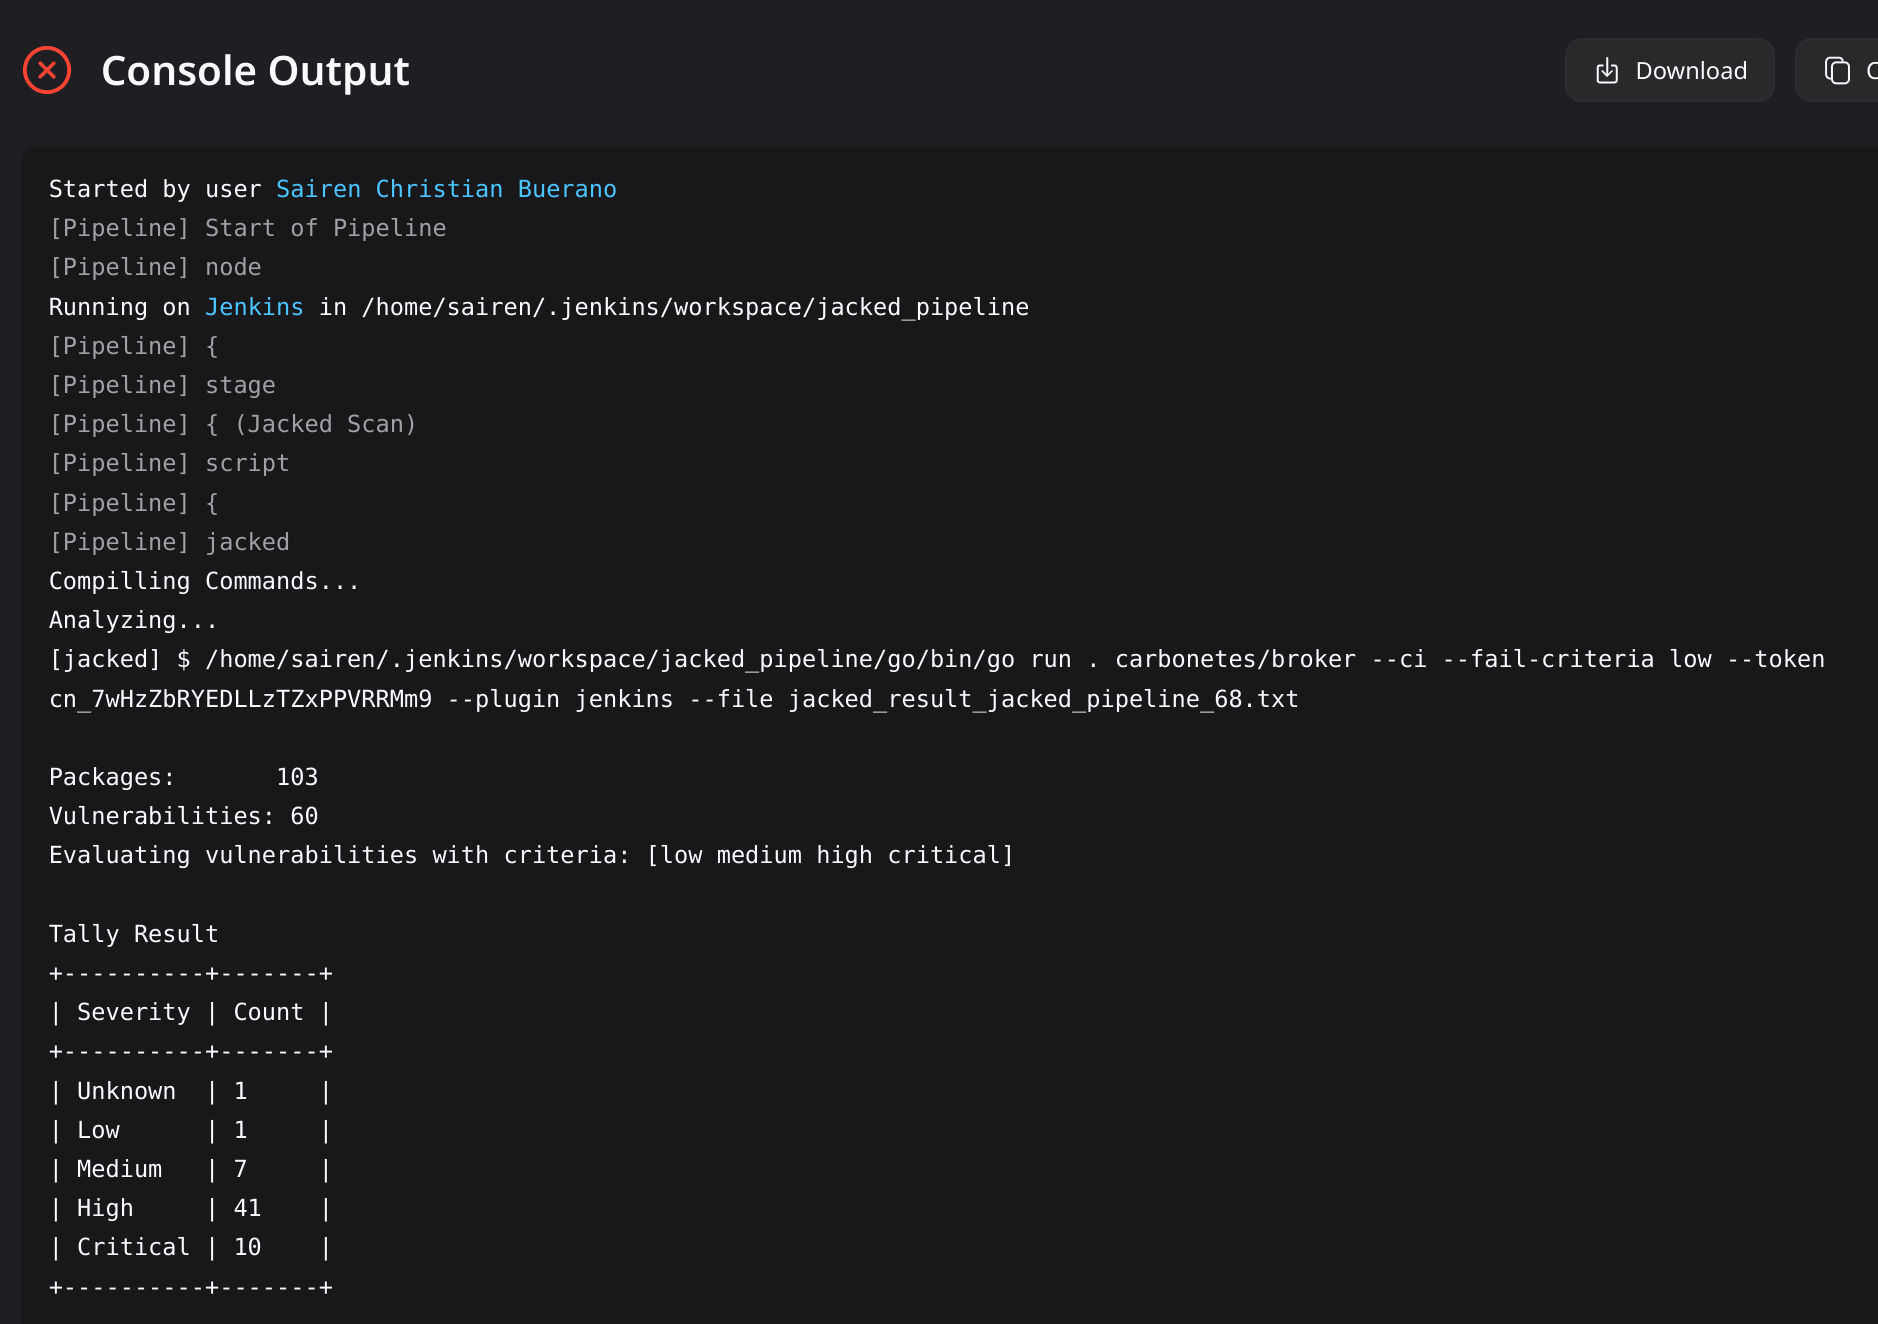
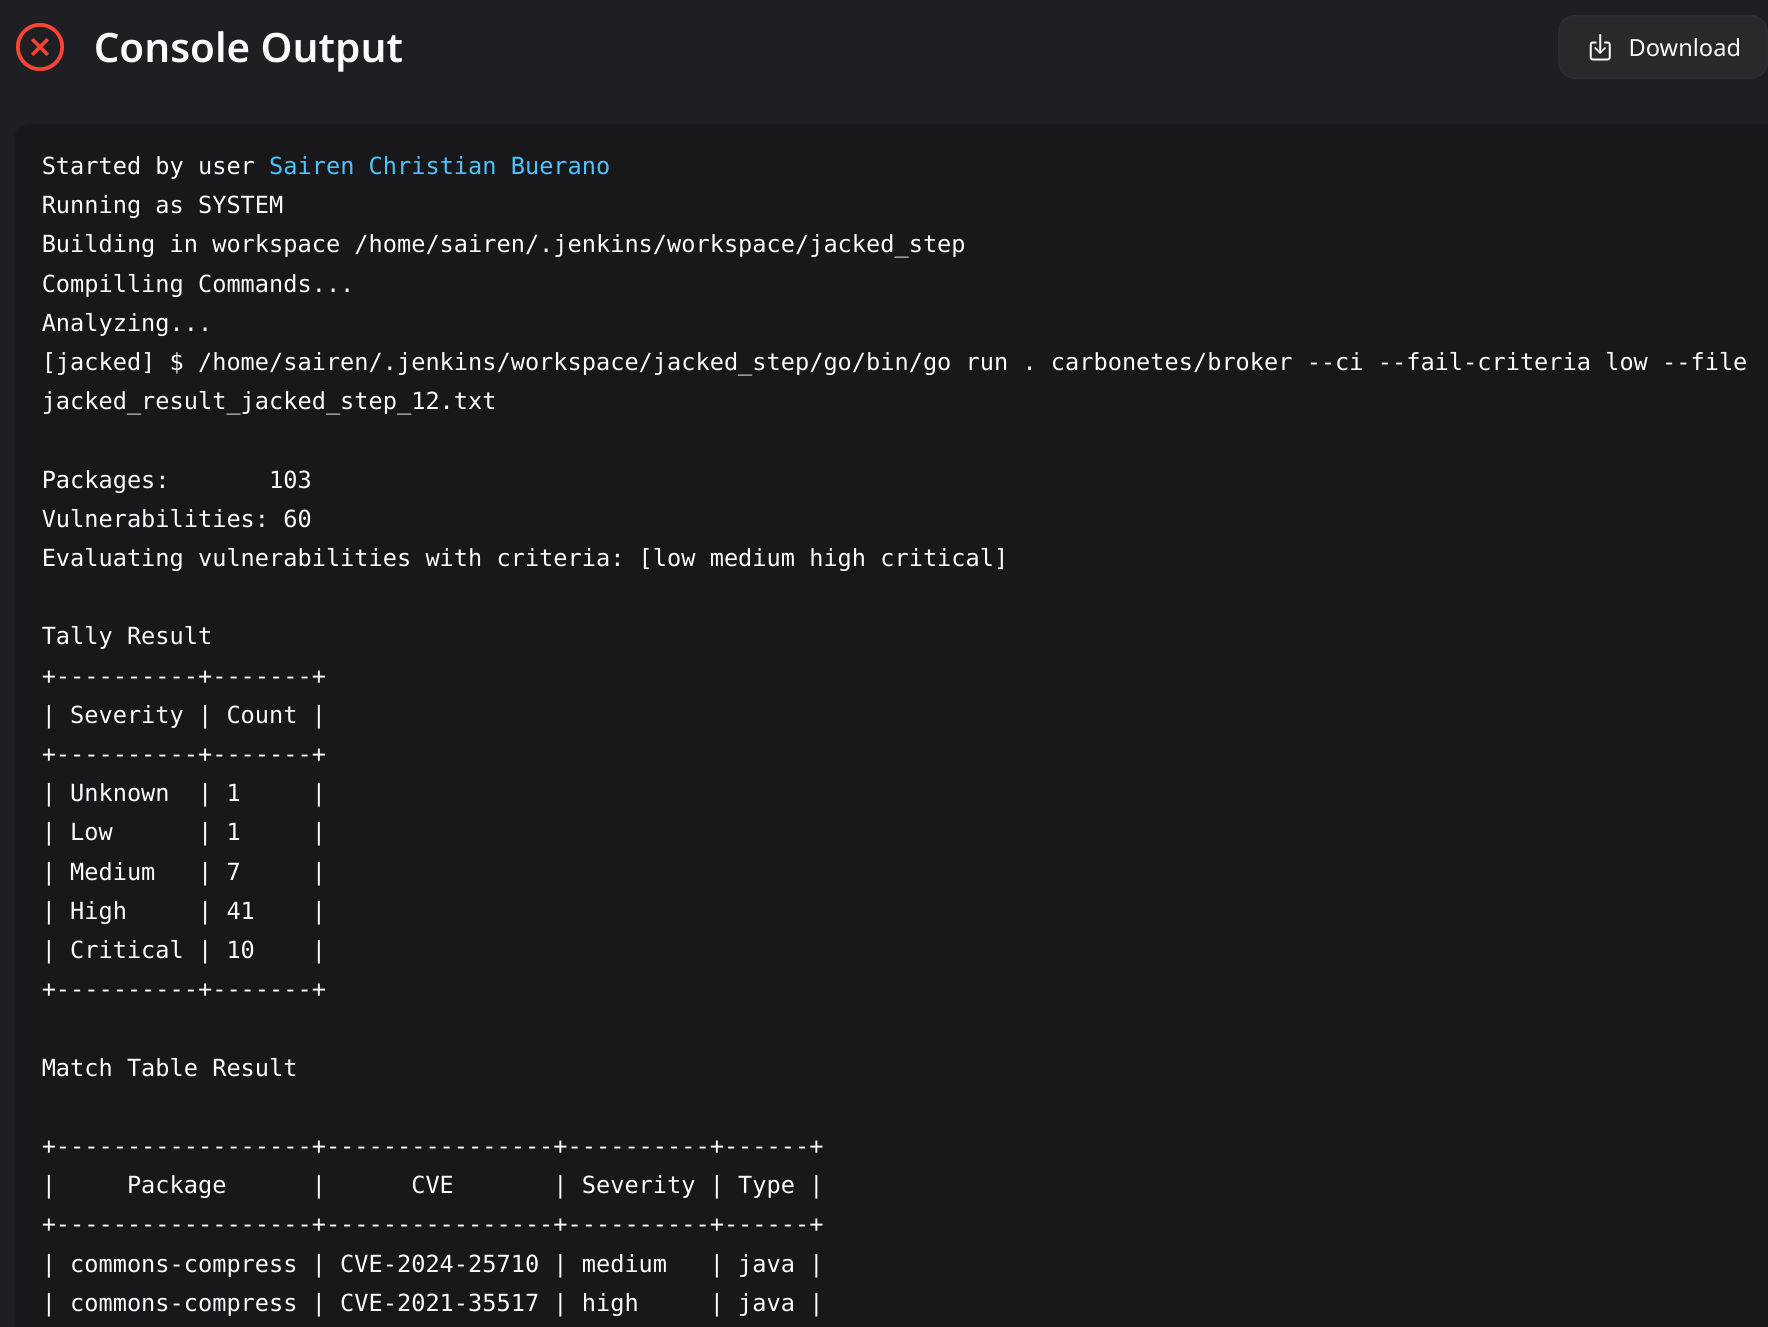
feature: 1.5.1 - bugfixes and apply jacked v1.9.1-ci-0.0.1 updates

diff --git a/src/main/java/io/jenkins/plugins/jacked/scan/SetArgs.java b/src/main/java/io/jenkins/plugins/jacked/scan/SetArgs.java
@@ -1,5 +1,6 @@
 package io.jenkins.plugins.jacked.scan;
 
+import java.nio.file.Paths;
 import java.util.ArrayList;
 
 import io.jenkins.plugins.jacked.model.JackedConfig;
@@ -16,19 +17,21 @@ public class SetArgs {
     private static final String CIMODE = "--ci";
     private static final String FILE = "--file";
     private static final String SKIPDBUPDATE = "--skip-db-update";
-    private static final String IGNOREPACKAGENAMES = "--ignore-package-names";
-    private static final String IGNOREVULNCVES = "--ignore-cves";
+
+
+    /* Commented out for now for disabling integration feature 05-20-2024
     private static final String TOKEN = "--token";
     private static final String PLUGIN = "--plugin";
+     */
 
     public String[] scanTypeArgs(JackedConfig jackedConfig, JenkinsConfig jenkinsConfig) {
         ArrayList<String> cmdArgs = new ArrayList<>();
 
         // Get the Go binary path from the JackedConfigscanTypeArgs(jackedConfig)
         String workspaceDir = jenkinsConfig.getWorkspace().getRemote(); // /home/sairen/.jenkins/workspace/jacked pipeline
-        String goTmpDir = workspaceDir + "/go"; // Static folder for Go binary
+        String goTmpDir = Paths.get(workspaceDir, "go").toString(); // Static folder for Go binary
 
-        String goBinaryPath = goTmpDir + "/bin/go";
+        String goBinaryPath = Paths.get(goTmpDir, "bin", "go").toString();
         // Ensure the Go binary path is valid
         if (goBinaryPath == null || goBinaryPath.isEmpty()) {
             throw new IllegalArgumentException("Go binary path is not set in JackedConfig.");
@@ -66,24 +69,16 @@ public class SetArgs {
         cmdArgs.add(FAILCRITERIA);
         cmdArgs.add(jackedConfig.getSeverityType());
 
+        /* Commented out for now for disabling integration feature 05-20-2024
         cmdArgs.add(TOKEN);
         cmdArgs.add(jackedConfig.getToken());
 
         cmdArgs.add(PLUGIN);
         cmdArgs.add("jenkins");
+        */
 
         if (Boolean.TRUE.equals(jackedConfig.getSkipDbUpdate())) {
             cmdArgs.add(SKIPDBUPDATE);
-        }
-
-        if (jackedConfig.getIgnorePackageNames() != null && !jackedConfig.getIgnorePackageNames().isEmpty()) {
-            cmdArgs.add(IGNOREPACKAGENAMES);
-            cmdArgs.add(jackedConfig.getIgnorePackageNames());
-        }
-
-        if (jackedConfig.getIgnoreCves() != null && !jackedConfig.getIgnoreCves().isEmpty()) {
-            cmdArgs.add(IGNOREVULNCVES);
-            cmdArgs.add(jackedConfig.getIgnoreCves());
         }
 
         // Output file

diff --git a/src/main/java/io/jenkins/plugins/jacked/Jacked.java b/src/main/java/io/jenkins/plugins/jacked/Jacked.java
@@ -39,7 +39,8 @@ import io.jenkins.plugins.jacked.model.JackedConfig;
 import io.jenkins.plugins.jacked.model.JenkinsConfig;
 
 /**
- * @author Sairen Christian Buerano - Carbonetes
+ * @author Sairen Christian Buerano
+ * @author Carbonetes
  */
 @Getter
 @Setter
@@ -52,9 +53,9 @@ public class Jacked extends Builder implements SimpleBuildStep {
     private String scanType;
     private Boolean skipFail;
     private Boolean skipDbUpdate;
-    private String ignorePackageNames;
-    private String ignoreCves;
+    /* Commented out for now for disabling integration feature 05-20-2024
     private String token;
+    */
     private Map<String, String> content;
 
     // Fields in config.jelly must match the parameter names in the
@@ -67,9 +68,9 @@ public class Jacked extends Builder implements SimpleBuildStep {
         String scanType, 
         Boolean skipFail, 
         Boolean skipDbUpdate, 
-        String ignorePackageNames, 
-        String ignoreCves, 
+        /* Commented out for now for disabling integration feature 05-20-2024
         String token,
+        */
         Map<String, String> 
         content, 
         JackedConfig 
@@ -81,20 +82,20 @@ public class Jacked extends Builder implements SimpleBuildStep {
         this.scanType = scanType;
         this.skipFail = skipFail;
         this.skipDbUpdate = skipDbUpdate;
-        this.ignorePackageNames = ignorePackageNames;
-        this.ignoreCves = ignoreCves;
         this.content = content;
+        /* Commented out for now for disabling integration feature 05-20-2024
         this.token = token;
+        */
         this.jackedConfig = new JackedConfig(
             scanDest, 
             scanName, 
             severityType, 
             scanType, 
             skipFail, 
-            skipDbUpdate,
-            ignorePackageNames, 
-            ignoreCves,
+            skipDbUpdate
+            /* Commented out for now for disabling integration feature 05-20-2024
             token
+            */
         );
     }
 

diff --git a/src/main/java/io/jenkins/plugins/jacked/model/JackedConfig.java b/src/main/java/io/jenkins/plugins/jacked/model/JackedConfig.java
@@ -14,9 +14,9 @@ public class JackedConfig {
     private String scanType;
     private Boolean skipFail;
     private Boolean skipDbUpdate;
-    private String ignorePackageNames;
-    private String ignoreCves;
+    /* Disabling integration feature 05-20-2024
     private String token;
+    */
     private Map<String, String> content;
     
     public JackedConfig(
@@ -25,10 +25,10 @@ public class JackedConfig {
         String severityType, 
         String scanType, 
         Boolean skipFail, 
-        Boolean skipDbUpdate, 
-        String ignorePackageNames, 
-        String ignoreCves, 
+        Boolean skipDbUpdate
+        /* Disabling integration feature 05-20-2024
         String token
+        */
     ){
         this.scanDest = scanDest;
         this.scanName = scanName;
@@ -36,9 +36,9 @@ public class JackedConfig {
         this.scanType = scanType;
         this.skipFail = skipFail;
         this.skipDbUpdate = skipDbUpdate;
-        this.ignorePackageNames = ignorePackageNames;
-        this.ignoreCves = ignoreCves;
+        /* Disabling integration feature 05-20-2024
         this.token = token;
+        */
     }
 
 }

diff --git a/src/main/java/io/jenkins/plugins/jacked/install/Clone.java b/src/main/java/io/jenkins/plugins/jacked/install/Clone.java
@@ -22,17 +22,17 @@ public class Clone {
                 destDir.deleteRecursive();
             }
 
-            listener.getLogger().println("Cloning repository and checking out tag v1.9.1-ci...");
+            listener.getLogger().println("Cloning repository and checking out tag v1.9.1-ci-0.0.1..."); // v1.9.1-ci
 
             // Clone the repository without checkout
             Git.cloneRepository()
             .setURI("https://github.com/carbonetes/jacked.git")
             .setDirectory(new File(destDir.getRemote()))
-            .setBranch("refs/tags/v1.9.1-ci")
+            .setBranch("refs/tags/v1.9.1-ci-0.0.1") // v1.9.1-ci
             .call();
         
 
-            listener.getLogger().println("Repository cloned and tag v1.9.1-ci checked out at: " + destDir.getRemote());
+            listener.getLogger().println("Repository cloned and tag v1.9.1-ci-0.0.1 checked out at: " + destDir.getRemote()); // v1.9.1-ci
         } catch (GitAPIException e) {
             listener.getLogger().println("Error during repository clone or checkout: " + e.getMessage());
             e.printStackTrace(listener.getLogger());

diff --git a/src/main/java/io/jenkins/plugins/jacked/install/JackedExist.java b/src/main/java/io/jenkins/plugins/jacked/install/JackedExist.java
@@ -12,7 +12,7 @@ public class JackedExist {
     public Boolean checkIfExists(FilePath workspace) {
         // CheckVersion checkVersion = new CheckVersion();
         String workspacePath = workspace.getRemote();
-        String version = "v1.9.1-ci"; // checkVersion.getVersion();
+        String version = "v1.9.1-ci-0.0.1"; // checkVersion.getVersion(); // 05-20-2024 temporarily uses present version instead of v1.9.1-ci
         String fileName = "jacked" + version + "-exist.txt";
         String fileContent = "Jacked" + version + " installed on this workspace";
 

diff --git a/src/main/java/io/jenkins/plugins/jacked/install/Go.java b/src/main/java/io/jenkins/plugins/jacked/install/Go.java
@@ -20,7 +20,7 @@ public class Go {
         // Replace spaces with underscores for safe directory handling
         goTmpDir = goTmpDir.replace(" ", "_");
 
-        String goUrl = "https://go.dev/dl/go1.22.4.linux-amd64.tar.gz";
+        String goUrl = "https://go.dev/dl/go1.22.4.linux-amd64.tar.gz"; // Uses 1.22.4 Go Version
         String downloadPath = goTmpDir + "/go.tar.gz";
         String extractDir = goTmpDir; // final go path = goTmpDir/go
 

diff --git a/README.md b/README.md
@@ -37,8 +37,6 @@ Provides the following:
 - Saves Stored Values JSON File for Environment Variables. `jackedTmpDir/jacked_file.json`
 
 # Plugin Configuration Fields and Descriptions
-## Token
-<b>Input: </b> Generated Personal Access Token from [Carbonetes](https://www.carbonetes.com/). Sign-up [here](https://app.carbonetes.com/register).
 ## Scan Type
 <b>Description: </b>Specified the input on scan field based on the selected scan type.
 <br>
@@ -59,15 +57,6 @@ Provides the following:
 - Low
 - Negligible
 - Unknown
-## Ignore Package Names
-<b>Usage:</b> Ignore the following package names when scanning. Leave blank if not using.
-<br>
-Example Input Format: dpkg,tar,gzip,...
-## Ignore CVEs
-<b>Usage:</b> Ignore the following CVEs when scanning. Leave blank if not using.
-<br>
-Example Input Format: CVE-2022-24775,CVE-2022-1304,TEMP-0000000-6F6CD4,...
-
 
 ## Skip Build Fail
 Default value is `false / unchecked`.
@@ -87,15 +76,13 @@ pipeline {
         stage('Jacked Scan') {
             steps {
                 script {
-                    token: '', // Generated from https://app.carbonetes.com/
-                    jacked scanType: 'image',           // Choose Scan Type: image, directory, tar, or sbom.
-                    scanName: 'ubuntu',                 // Input: Image name, Directory path, tar file path, or sbom file path.
-                    severityType: 'high',               // Select a threshold that will fail the build when equal to or above the severity found in the results. 
-                                                        // Severity: critical, high, medium, low, negligible, unknown.
-                    skipFail: false,                    // Default as false. Skip build to fail based on the assessment.
-                    skipDbUpdate: false,                // Default as false. Skip Database Update when scanning.
-                    ignorePackageNames: '',             // Ignore Package names when scanning... e.g. input: dpkg,tar,bash,...
-                    ignoreCves: ''                      // Ignore CVES when scanning... e.g. input: CVE-2022-1271,CVE-2022-3715,CVE-2022-1664,...
+                    jacked(
+                        scanType: 'image',           // Choose Scan Type: image, directory, tar, or sbom.
+                        scanName: 'ubuntu',          // Input: Image name, Directory path, tar file path, or sbom file path.
+                        severityType: 'high',        // Threshold to fail the build.
+                        skipFail: false,             // Default as false.
+                        skipDbUpdate: false          // Default as false.
+                    )
                 }
             }
         }
@@ -136,15 +123,12 @@ stage('Jacked Scan') {
     steps {
         catchError(buildResult: 'SUCCESS', stageResult: 'FAILURE') { // Prevents other stages to be skipped when JACKED ASSESSMENT is failed
             script {
-                token: '', // Generated from https://app.carbonetes.com/
                 jacked scanType: 'images',          // Choose Scan Type: image, directory, tar, or sbom.
                 scanName: 'alpine',                 // Input: Image name, Directory path, tar file path, or sbom file path.
                 severityType: 'high',               // Select a threshold that will fail the build when equal to or above the severity found in the results. 
                                                     // Severity: critical, high, medium, low, negligible, unknown.
                 skipFail: false,                    // Default as false. Skip build to fail based on the assessment.
                 skipDbUpdate: false,                // Default as false. Skip Database Update when scanning.
-                ignorePackageNames: '',             // Ignore Package names when scanning... e.g. input: dpkg,tar,bash,...
-                ignoreCves: ''                      // Ignore CVES when scanning... e.g. input: CVE-2022-1271,CVE-2022-3715,CVE-2022-1664,...
             }
         }
     }
@@ -233,15 +217,12 @@ pipeline {
             steps {
                 catchError(buildResult: 'SUCCESS', stageResult: 'FAILURE') {
                     script {
-                        token: '', // Generated from https://app.carbonetes.com/
                         jacked scanType: 'image',       // Choose Scan Type: image, directory, tar, or sbom.
                         scanName: 'alpine',             // Input: Image name, Directory path, tar file path, or sbom file path.
                         severityType: 'high',           // Select a threshold that will fail the build when equal to or above the severity found in the results. 
                                                         // Severity: critical, high, medium, low, negligible, unknown.
                         skipFail: false,                // Default as false. Skip build to fail based on the assessment.
                         skipDbUpdate: false,            // Default as false. Skip Database Update when scanning.
-                        ignorePackageNames: '',         // Ignore Package names when scanning... e.g. input: dpkg,tar,bash,...
-                        ignoreCves: ''                  // Ignore CVES when scanning... e.g. input: CVE-2022-1271,CVE-2022-3715,CVE-2022-1664,...
                         
                     }
                 }
